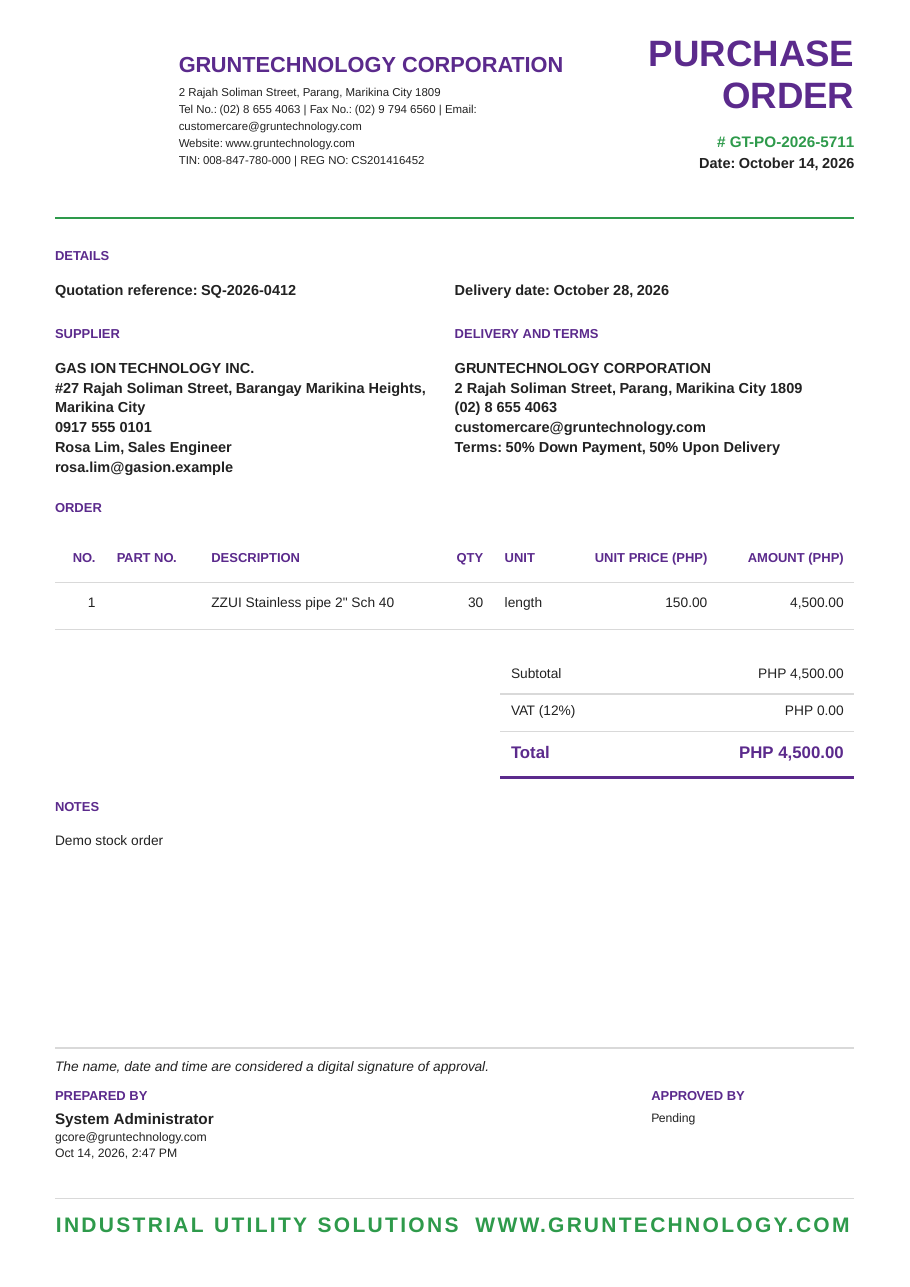
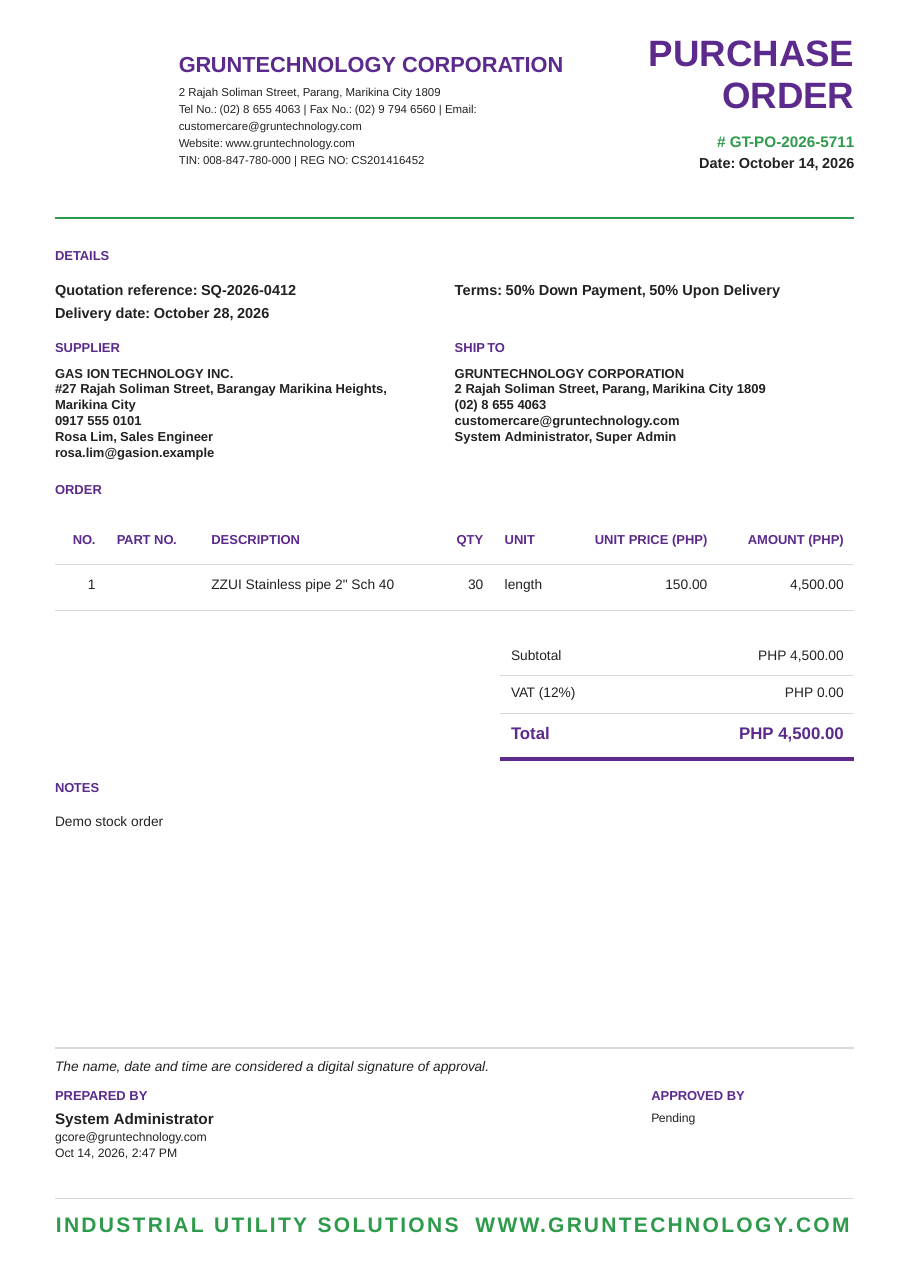
Purchase order paper: details in columns with terms, Ship to block with the buyer, tighter address blocks
Claude-Session: https://claude.ai/code/session_017S7WKxPcaD1eFJsYc4Pw2Y

diff --git a/api/src/shared/pdf.ts b/api/src/shared/pdf.ts
@@ -163,10 +163,11 @@ export interface PdfDocumentSpec {
   /** The document's name in bold — the purchase order's (2026-10-14, the owner's call); every other document keeps it regular. */
   titleBold?: boolean;
   /**
-   * The DETAILS block's lines in place of Date and Reference, label and
-   * value — the purchase order's quotation reference and delivery date.
+   * The DETAILS block in place of Date and Reference: columns side by side,
+   * each a stack of label and value — the purchase order's quotation
+   * reference over its delivery date, its terms beside them.
    */
-  details?: [string, string][];
+  details?: [string, string][][];
   sections: PdfSection[];
   signatories?: Signatory[];
   /** Small print above the footer rule. */
@@ -633,25 +634,22 @@ function drawLetterhead(doc: PDFKit.PDFDocument, spec: PdfDocumentSpec, company:
   doc.y = ruleY + 22.75 - 10;
   sectionTitle(doc, 'Details', DETAIL_LINE);
   const detailsTop = doc.y;
-  const meta: [string, string][] = spec.details
-    ? spec.details.map(([l, v]) => [pdfSafe(l), pdfSafe(v)])
-    : [['Date', formatShortDate(spec.date ?? new Date())]];
-  if (!spec.details && spec.reference) meta.push(['Reference', spec.reference]);
   doc.font('Helvetica-Bold').fontSize(DETAIL_SIZE).fillColor(INK);
   if (spec.details) {
-    // A document's own details sit two to a line (the purchase order's
-    // quotation reference beside its delivery date).
-    const half = (right - left) / 2;
-    for (let i = 0; i < meta.length; i += 2) {
-      const rowTop = doc.y;
-      let rowBottom = rowTop;
-      meta.slice(i, i + 2).forEach(([label, value], j) => {
-        doc.text(`${label}: ${value}`, left + j * half, rowTop, { width: half - 10, lineGap: DETAIL_GAP });
-        rowBottom = Math.max(rowBottom, doc.y);
-      });
-      doc.y = rowBottom;
-    }
+    const cols = spec.details.filter((c) => c.length);
+    const colW = (right - left) / Math.max(1, cols.length);
+    let bottom = doc.y;
+    cols.forEach((col, j) => {
+      doc.y = detailsTop;
+      for (const [label, value] of col) {
+        doc.text(`${pdfSafe(label)}: ${pdfSafe(value)}`, left + j * colW, doc.y, { width: colW - 10, lineGap: DETAIL_GAP });
+      }
+      bottom = Math.max(bottom, doc.y);
+    });
+    doc.y = bottom;
   } else {
+    const meta: [string, string][] = [['Date', formatShortDate(spec.date ?? new Date())]];
+    if (spec.reference) meta.push(['Reference', spec.reference]);
     for (const [label, value] of meta) {
       doc.text(`${label}: ${value}`, left, doc.y, { width: right - left, lineGap: DETAIL_GAP });
     }
@@ -663,7 +661,7 @@ function drawLetterhead(doc: PDFKit.PDFDocument, spec: PdfDocumentSpec, company:
   // first table starts where the quotation's does.
   // A document laying out its own details (the purchase order) runs
   // straight on into its first section, as the owner's layout places it.
-  doc.y = spec.details ? doc.y + 4 : detailsTop + Math.max(41, doc.y - detailsTop) + 23;
+  doc.y = spec.details ? doc.y - 2 : detailsTop + Math.max(41, doc.y - detailsTop) + 23;
 }
 
 /**
@@ -757,7 +755,8 @@ function drawSection(doc: PDFKit.PDFDocument, section: PdfSection) {
     case 'blocks': {
       const n = Math.max(1, section.blocks.length);
       const colWidth = usableWidth(doc) / n;
-      const line = DETAIL_SIZE * LINE + 2;
+      const BLOCK_SIZE = 8.5;
+      const line = BLOCK_SIZE * LINE + 0.5;
       const tallest = Math.max(...section.blocks.map((b) => b.lines.length), 1);
       ensureSpace(doc, 10 + 22 + Math.min(tallest, 4) * line);
       doc.y += 10;
@@ -766,10 +765,10 @@ function drawSection(doc: PDFKit.PDFDocument, section: PdfSection) {
       section.blocks.forEach((block, i) => {
         const x = T.left + i * colWidth;
         doc.font('Helvetica-Bold').fontSize(8.5).fillColor(PURPLE).text(caps(block.title), x, top, { lineBreak: false });
-        let y = top + 22;
+        let y = top + 17;
         for (const text of block.lines) {
-          for (const part of wrapText(doc, text, colWidth - 12, true, DETAIL_SIZE)) {
-            drawLine(doc, part, x, y, colWidth - 12, 'left', true, DETAIL_SIZE, INK);
+          for (const part of wrapText(doc, text, colWidth - 12, true, BLOCK_SIZE)) {
+            drawLine(doc, part, x, y, colWidth - 12, 'left', true, BLOCK_SIZE, INK);
             y += line;
           }
         }

diff --git a/api/src/routes/procurement.ts b/api/src/routes/procurement.ts
@@ -3533,6 +3533,7 @@ purchaseOrderRoutes.get(
     // address block with no labels. No "For" (internal), no supplier TIN,
     // no purchase request or status.
     const company = await prisma.company.findUnique({ where: { id: 'company' } });
+    const buyer = await prisma.user.findUnique({ where: { id: po.createdById }, select: { position: true } });
     const place = (...parts: (string | null | undefined)[]) => parts.filter((p) => p?.trim()).join(', ');
     const supplierLines = [
       po.supplier.name,
@@ -3546,14 +3547,15 @@ purchaseOrderRoutes.get(
       po.deliverTo?.trim() || place(company?.address, company?.city) || po.warehouse?.name || '',
       company?.phone ?? '',
       company?.email ?? '',
-      `Terms: ${po.terms ?? po.supplier.paymentTerms ?? '—'}`,
+      // Whom the supplier asks for at delivery: the buyer who prepared it.
+      [po.createdBy.name, buyer?.position].filter(Boolean).join(', '),
     ].filter((l) => l.trim());
     const sections: PdfSection[] = [
       {
         kind: 'blocks',
         blocks: [
           { title: 'Supplier', lines: supplierLines },
-          { title: 'Delivery and terms', lines: deliveryLines },
+          { title: 'Ship to', lines: deliveryLines },
         ],
       },
       {
@@ -3618,8 +3620,11 @@ purchaseOrderRoutes.get(
       numberNote: `Date: ${formatDate(po.orderDate)}`,
       titleBold: true,
       details: [
-        ['Quotation reference', po.quoteRef ?? '—'],
-        ['Delivery date', po.deliveryDate ? formatDate(po.deliveryDate) : '—'],
+        [
+          ['Quotation reference', po.quoteRef ?? '—'],
+          ['Delivery date', po.deliveryDate ? formatDate(po.deliveryDate) : '—'],
+        ],
+        [['Terms', po.terms ?? po.supplier.paymentTerms ?? '—']],
       ],
       sections,
       signatories,

diff --git a/api/scripts/verify-chain.ts b/api/scripts/verify-chain.ts
@@ -1359,7 +1359,7 @@ async function main() {
     await prisma.supplierContact.delete({ where: { id: contactRow.id } });
     check(
       'the order\'s paper (the owner\'s layout) prints the date, the quotation reference, the delivery date and the supplier\'s contact — no "For", no TIN',
-      poPaper2.includes('Date: ') && poPaper2.includes('digital signature of approval') && !poPaper2.includes('Purchase request:') && !poPaper2.includes('Status:') && poPaper2.includes('SQ-77881') && poPaper2.includes('November 20, 2026') &&
+      poPaper2.includes('Date: ') && poPaper2.includes('digital signature of approval') && poPaper2.includes('SHIP TO') && !poPaper2.includes('DELIVERY AND TERMS') && !poPaper2.includes('Purchase request:') && !poPaper2.includes('Status:') && poPaper2.includes('SQ-77881') && poPaper2.includes('November 20, 2026') &&
         poPaper2.includes('Rosa Lim') && poPaper2.includes('0917 555 0101') && poPaper2.includes('rosa@example.test') &&
         !/\bTIN\b/.test(poPaper2.replace(/TIN: [^|]*\|/, '')) && !poPaper2.includes('For:') && !poPaper2.includes('FOR '),
       poPaper2.slice(0, 400),

diff --git a/CLAUDE.md b/CLAUDE.md
@@ -4427,14 +4427,16 @@ page's dress (`prq-*`) and reusing its `ItemCell` and `lib/prLines.ts`.
   (2026-10-14, `docs/mockups/purchase-order-layout.pptx`, his slide):
   the title in bold (`titleBold`, this document only), "Date: …" under
   the number (`renderDocument`'s `numberNote`); DETAILS
-  is the quotation reference beside the delivery date (`details`, two to
-  a line, and the section after it follows straight on rather than at the
-  fixed DETAILS height); then **Supplier** and **Delivery and terms** side
-  by side as unlabelled address blocks (the engine's `blocks` section) —
-  the supplier's name, address, the contact's mobile (else the supplier's
-  phone), the contact person (primary, else first) and email; our
-  registered name, the order's Deliver to (else the company's address),
-  the company's phone and email, and "Terms: …". Then the lines, totals
+  is columns (`details`, an array of columns: the quotation reference
+  over the delivery date, the terms beside them), and the section after
+  it follows straight on rather than at the fixed DETAILS height; then
+  **Supplier** and **Ship to** side by side as unlabelled 8.5pt address
+  blocks (the engine's `blocks` section) — the supplier's name, address,
+  the contact's mobile (else the supplier's phone), the contact person
+  (primary, else first) and email; our registered name, the order's
+  Deliver to (else the company's address), the company's phone and
+  email, and the buyer who prepared it with their position (the owner's
+  second slide, 2026-10-14). Then the lines, totals
   and notes, and over the sign-offs the italic "The name, date and time
   are considered a digital signature of approval." (`signoffNote`). Never
   "For" (internal), the supplier's TIN, the purchase request or a Status
